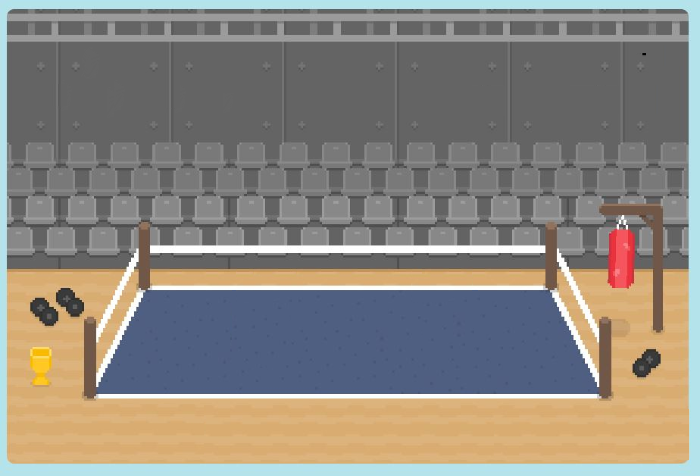
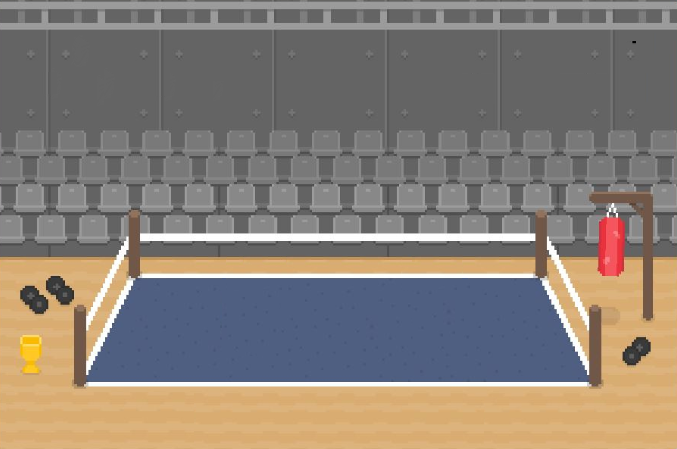
displaying backgound

diff --git a/game.py b/game.py
@@ -2,8 +2,13 @@
 import pygame
 
 pygame.init()
-screen = pygame.display.set_mode((800, 600))
+
+screen = pygame.display.set_mode((675, 450))
+
+background = pygame.image.load('assets/background.png').convert()
 
 running = True
 while running:
-    screen.fill((0, 0, 0))
+    # Background
+    screen.blit(background, (0, 0))
+    pygame.display.update()
